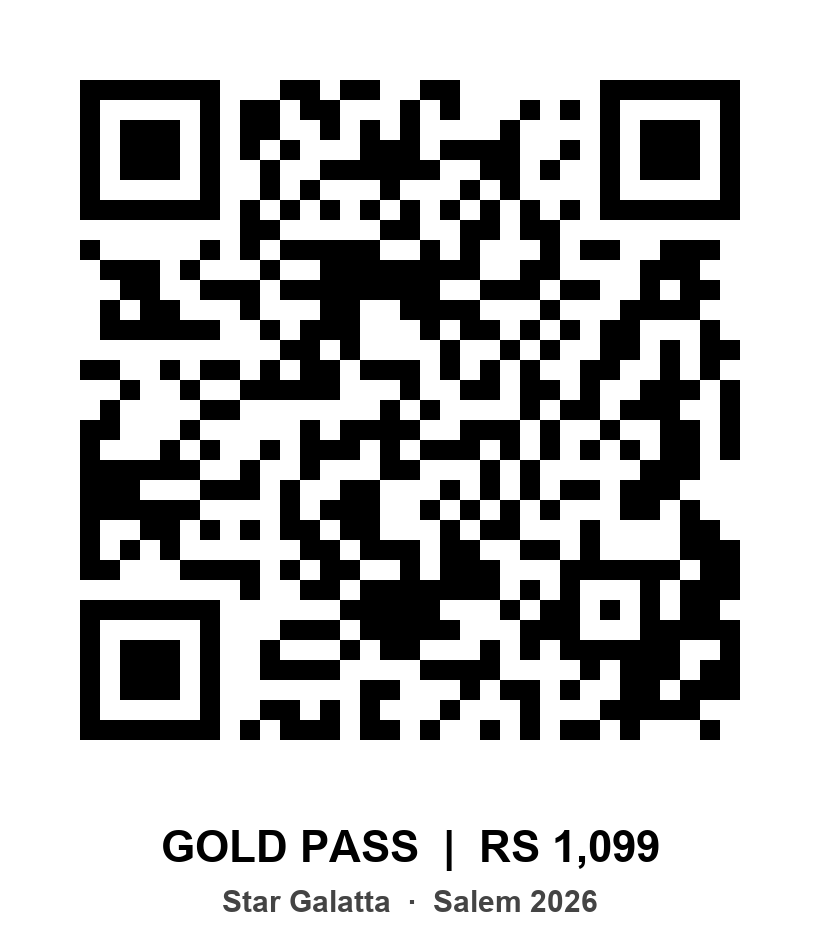
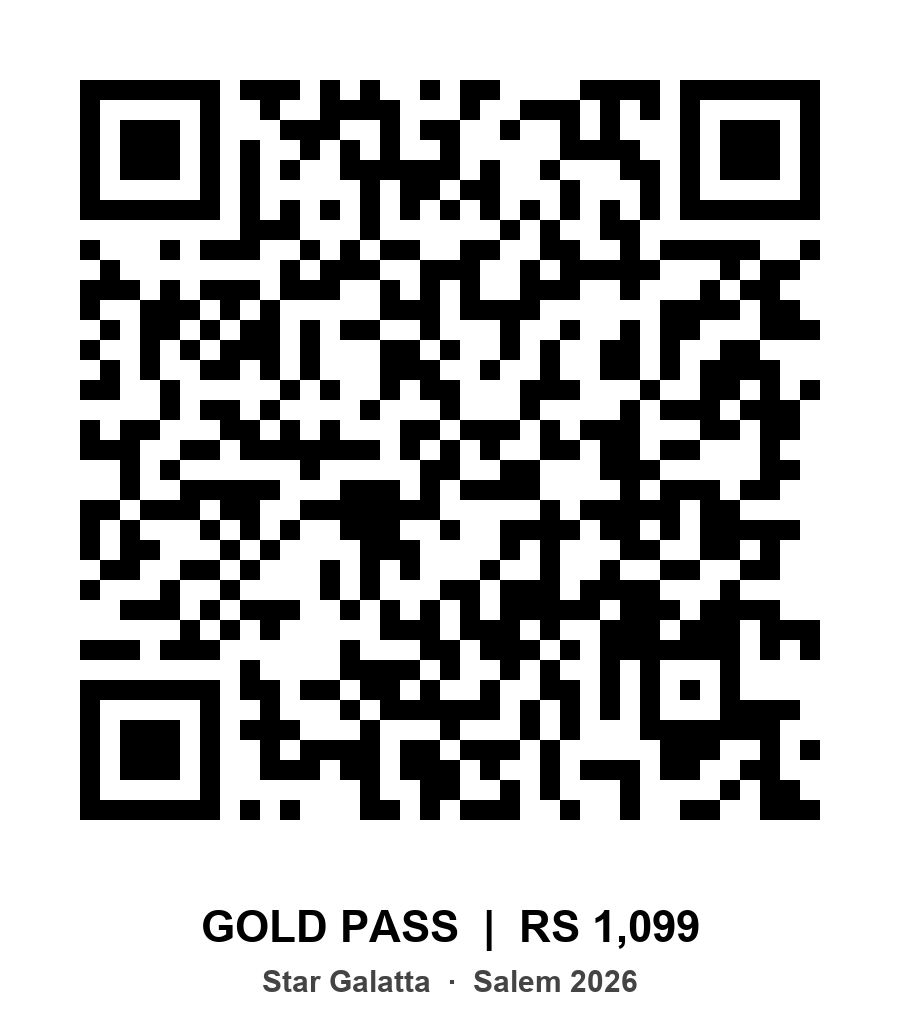
Point QR codes at GitHub Pages for scan testing
The Hostinger domain line stays in make_qr.py, to switch back before
the codes are printed.

diff --git a/make_qr.py b/make_qr.py
@@ -7,7 +7,9 @@ from PIL import Image, ImageDraw, ImageFont
 
 from prepare_passes import PASS_DIR, TIERS
 
-BASE_URL = "https://events.iqtechmax.com/hiphop-aadhi/"
+# Testing on GitHub Pages for now. Before printing, switch to the Hostinger domain and re-run:
+# BASE_URL = "https://events.iqtechmax.com/hiphop-aadhi/"
+BASE_URL = "https://vyshak-spec.github.io/hip-hop-aadhi/hiphop-aadhi/"
 SITE = "docs"
 EVENT_DIR = f"{SITE}/hiphop-aadhi"
 QR_DIR = "qr"

diff --git a/README.md b/README.md
@@ -8,7 +8,12 @@ The site is the static `docs/` folder, served at `https://events.iqtechmax.com/h
 The pages are marked `noindex` and there is no index page linking them, so a pass page is reached
 by scanning its QR code (the links are not secret: anyone with the URL can open it).
 
-| Level | Price | QR image | QR link |
+> **Testing phase:** the QR images in `qr/` currently point to the GitHub Pages copy
+> (`https://vyshak-spec.github.io/hip-hop-aadhi/hiphop-aadhi/<level>-pass`). Do not print them.
+> After the Hostinger server is set up, switch `BASE_URL` in `make_qr.py` to the
+> `events.iqtechmax.com` line, run `python make_qr.py`, and push; those are the codes to print.
+
+| Level | Price | QR image | Final QR link |
 |---|---|---|---|
 | MIP Elite Pass | Rs 25,000 | `qr/qr_mip-elite-pass.png` | https://events.iqtechmax.com/hiphop-aadhi/mip-elite-pass |
 | VVIP Pass | Rs 10,000 | `qr/qr_vvip-pass.png` | https://events.iqtechmax.com/hiphop-aadhi/vvip-pass |
